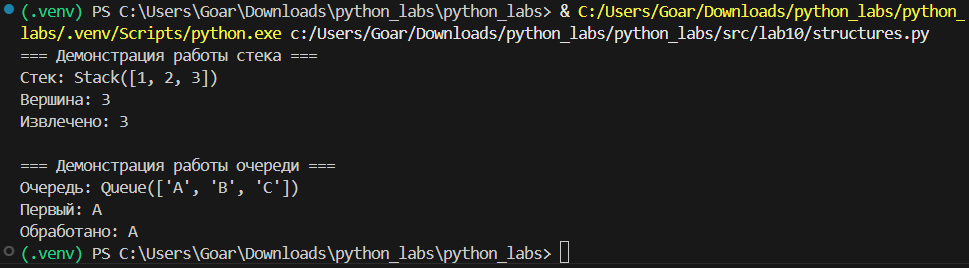
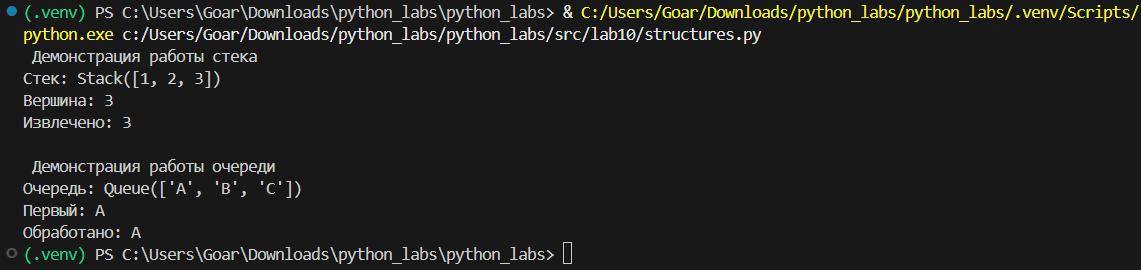
j

diff --git a/src/lab10/structures.py b/src/lab10/structures.py
@@ -65,7 +65,7 @@ class Queue:
         return f"Queue({list(self._data)})"
     
 if __name__ == "__main__":
-    print("=== Демонстрация работы стека ===")
+    print(" Демонстрация работы стека ")
     stack = Stack()
     stack.push(1)
     stack.push(2)
@@ -74,7 +74,7 @@ if __name__ == "__main__":
     print(f"Вершина: {stack.peek()}")
     print(f"Извлечено: {stack.pop()}")
     
-    print("\n=== Демонстрация работы очереди ===")
+    print("\n Демонстрация работы очереди ")
     queue = Queue()
     queue.enqueue('A')
     queue.enqueue('B')

diff --git a/src/lab10/linked_list.py b/src/lab10/linked_list.py
@@ -112,7 +112,7 @@ class SinglyLinkedList:
     
     
 if __name__ == "__main__":
-    print("=== Демонстрация работы связного списка ===")
+    print(" Демонстрация работы связного списка ")
     
     lst = SinglyLinkedList()
     print(f"1. Создан пустой список: {lst}")
